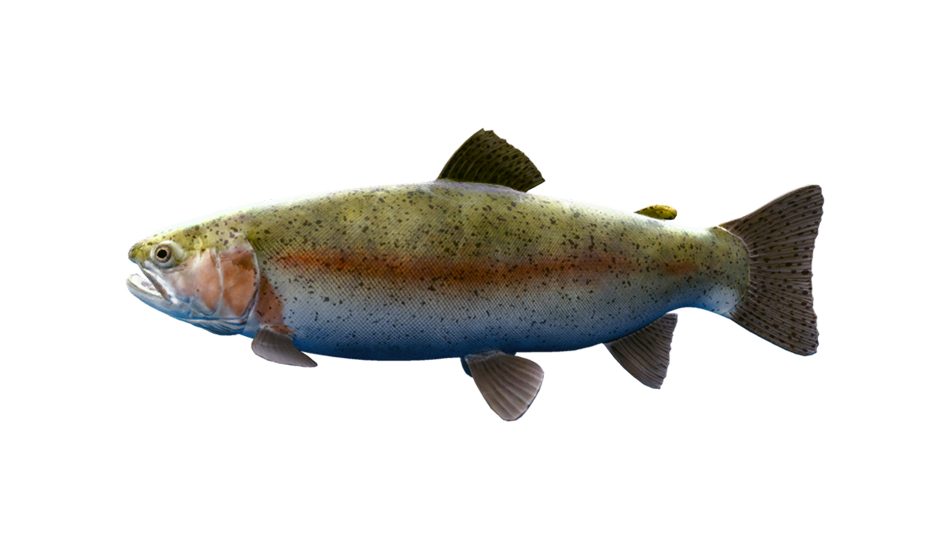
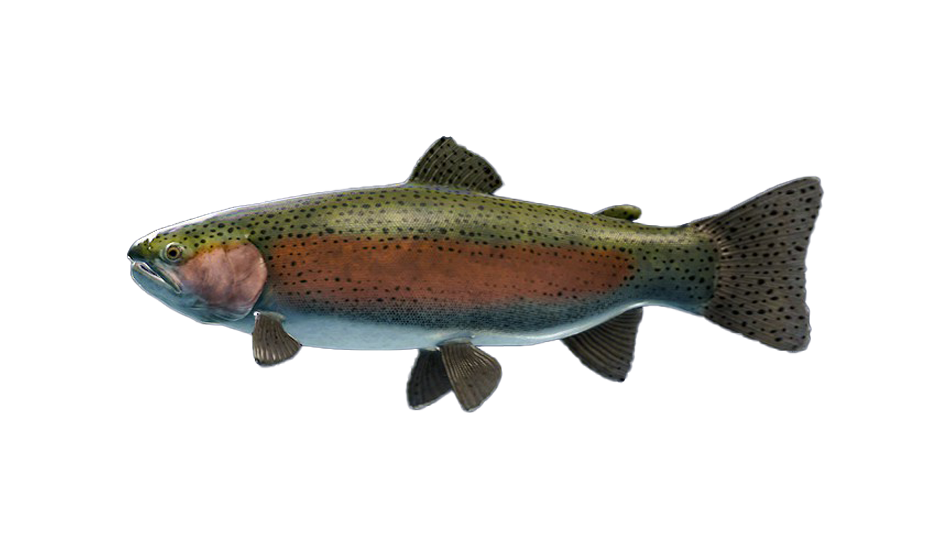
Added images for Kamuibetsu
Fish and reserve, updated graphics

Changed region(s): [[0.1221, 0.2164, 0.8853, 0.7727]]

diff --git a/lib/interface/graphics.dart b/lib/interface/graphics.dart
@@ -6,7 +6,8 @@ class Graphics {
     "RESERVE:GOLDEN_RIDGE_RESERVE": Assets.graphics.reserves.goldenRidgeReserve.path,
     "RESERVE:TROLLSPORET_NATURE_RESERVE": Assets.graphics.reserves.trollsporetNatureReserve.path,
     "RESERVE:AGUAS_CLARAS_MUNICIPIO": Assets.graphics.reserves.aguasClarasMunicipio.path,
-    "RESERVE:IZILO_ZASENDULO": Assets.graphics.reserves.iziloZasendulo.path
+    "RESERVE:IZILO_ZASENDULO": Assets.graphics.reserves.iziloZasendulo.path,
+    "RESERVE:KAMUIBETSU": Assets.graphics.reserves.kamuibetsu.path,
   };
 
   static final Map<String, String> _fish = {
@@ -89,6 +90,26 @@ class Graphics {
     "FISH:MAMLAMBO": Assets.graphics.fish.mamlambo.path,
     "FISH:CARPIODES_CARPIO": Assets.graphics.fish.riverCarpsucker.path,
     "FISH:PACIFASTACUS_LENIUSCULUS": Assets.graphics.fish.signalCrayfish.path,
+    "FISH:AMEMASU": Assets.graphics.fish.amemasu.path,
+    "FISH:ANGUILLA_JAPONICA": Assets.graphics.fish.japaneseEel.path,
+    "FISH:CHANNA_ARGUS": Assets.graphics.fish.northernSnakehead.path,
+    "FISH:CYPRINUS_CARPIO_2": Assets.graphics.fish.magoi.path,
+    "FISH:CYPRINUS_RUBROFUSCUS": Assets.graphics.fish.feralKoi.path,
+    "FISH:GEOTHELPHUSA_DEHAANI": Assets.graphics.fish.japaneseFreshwaterCrab.path,
+    "FISH:GOTO_THE_IMMORTAL": Assets.graphics.fish.gotoTheImmortal.path,
+    "FISH:HYPOMESUS_NIPPONENSIS": Assets.graphics.fish.japaneseSmelt.path,
+    "FISH:KOI_NO_TAKINOBORI": Assets.graphics.fish.koiNoTakinobori.path,
+    "FISH:MISGURNUS_ANGUILLICAUDATUS": Assets.graphics.fish.pondLoach.path,
+    "FISH:ONCORHYNCHUS_KETA": Assets.graphics.fish.chumSalmon.path,
+    "FISH:ONCORHYNCHUS_MASOU": Assets.graphics.fish.cherrySalmon.path,
+    "FISH:ONCORHYNCHUS_NERKA_2": Assets.graphics.fish.sockeyeSalmon.path,
+    "FISH:OREOCHROMIS_MOSSAMBICUS_2": Assets.graphics.fish.mozambiqueTilapia.path,
+    "FISH:PARAHUCHO_PERRYI": Assets.graphics.fish.sakhalinTaimen.path,
+    "FISH:PLECOGLOSSUS_ALTIVELIS": Assets.graphics.fish.ayuSweetfish.path,
+    "FISH:PSEUDASPIUS_HAKONENSIS": Assets.graphics.fish.japaneseDace.path,
+    "FISH:SALVELINUS_LEUCOMAENIS": Assets.graphics.fish.whiteSpottedChar.path,
+    "FISH:SALVELINUS_MALMA": Assets.graphics.fish.dollyVardenTrout.path,
+    "FISH:SILURUS_ASOTUS": Assets.graphics.fish.amurCatfish.path,
   };
 
   static final Map<String, String> _location = {
